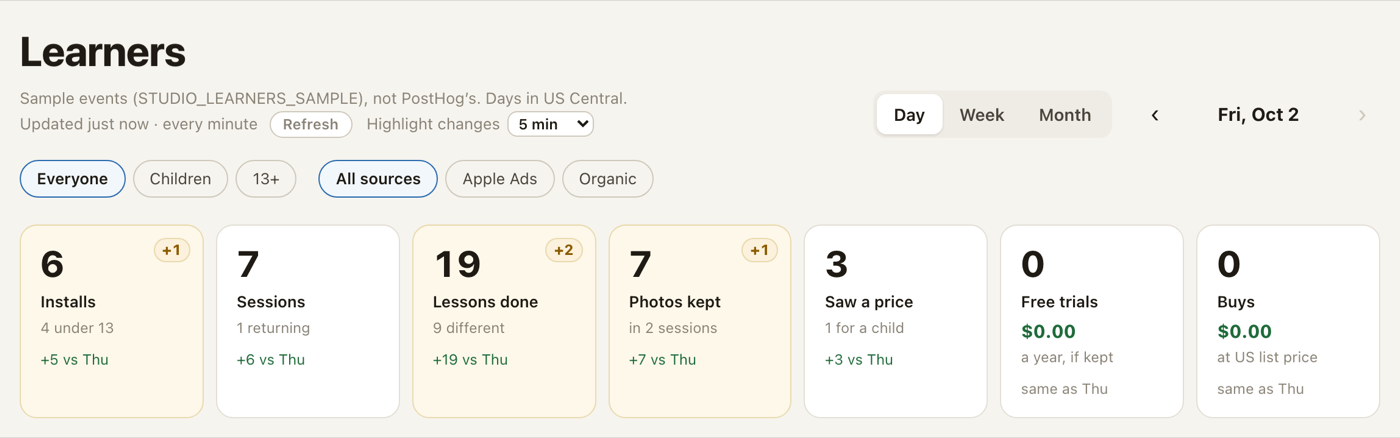
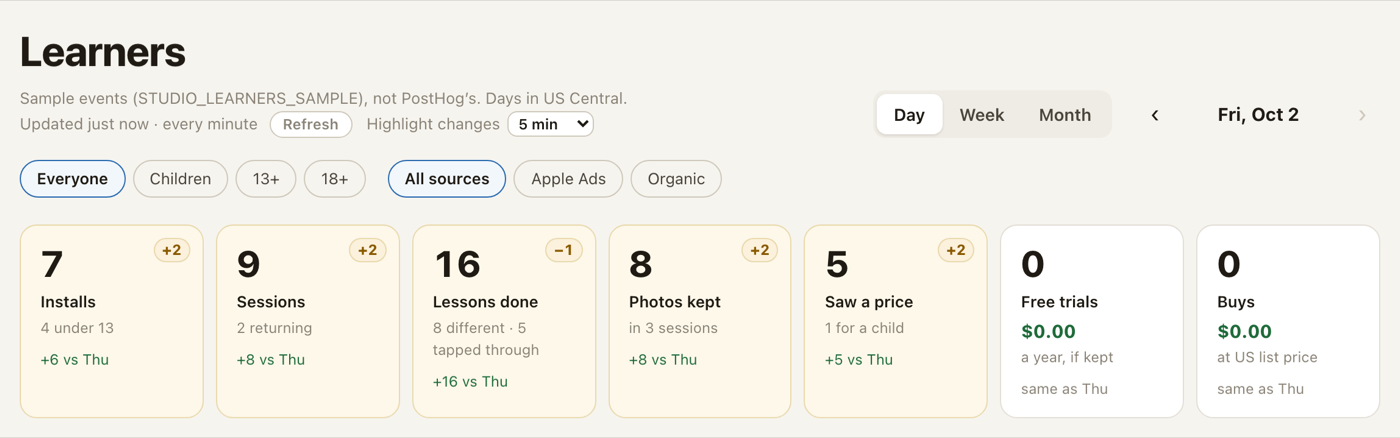
Studio Learners: leave out TestFlight and App Review devices
- The page asks App Store Connect (through `superwall asc get
  …/appStoreVersions`, kept an hour) which versions are or were on sale and
  when a phased release began, and leaves out every event of a version
  never on sale and a version's events before its phased release: what
  TestFlight and App Review devices sent. Events with no version, or of a
  version App Store Connect does not know, stay; without App Store Connect
  every version counts and the header says so.
- The header says what was left out: today "Left out: 1.1 (waiting for
  review), 6 events" (three devices on Sep 30, while 1.1 was in TestFlight).
- Debug builds and Apple Ads' test payload stay left out as before.
- The sample's versions are beside it (server/fixtures/app-versions.json);
  every screenshot of the page is retaken for the tapped-through counts.

Tests: 956 web tests pass, build clean.

diff --git a/web/server/appVersions.ts b/web/server/appVersions.ts
@@ -1,0 +1,81 @@
+import { promises as fs } from 'node:fs'
+
+import type { AppVersion } from '../src/studio/learners'
+import { superwall } from './appleAds'
+
+/**
+ * Paper Coach's versions as App Store Connect has them: which are or were on sale, and when
+ * a phased release began, read through Superwall's App Store Connect proxy (`superwall asc
+ * get`, no key to handle). The Learners page uses them to leave out what TestFlight and App
+ * Review devices sent (`leaveOutTestVersions`). Kept an hour (a failure, five minutes); with
+ * STUDIO_LEARNERS_SAMPLE, from a file beside the sample.
+ */
+export interface AppVersionsOptions {
+  sampleFile?: string
+  /** Runs `superwall` with these arguments and `--json`; for the tests. */
+  run?: (args: string[]) => Promise<unknown>
+}
+
+export interface AppVersionsResponse {
+  versions: AppVersion[]
+  problem: string | null
+}
+
+const APP_ID = '6816231257'
+const KEEP_MS = 60 * 60_000
+const KEEP_FAILURE_MS = 5 * 60_000
+/** On sale now, or once was (https://developer.apple.com/documentation/appstoreconnectapi/appversionstate). */
+const RELEASED = new Set(['READY_FOR_SALE', 'READY_FOR_DISTRIBUTION', 'REPLACED_WITH_NEW_VERSION', 'DEVELOPER_REMOVED_FROM_SALE', 'REMOVED_FROM_SALE'])
+
+let kept: { at: number; keep: number; response: AppVersionsResponse } | null = null
+
+/** Forgets the kept versions; for the tests. */
+export function forgetAppVersions() {
+  kept = null
+}
+
+export async function readAppVersions(options: AppVersionsOptions, now: number = Date.now()): Promise<AppVersionsResponse> {
+  if (options.sampleFile) {
+    try {
+      return { versions: (JSON.parse(await fs.readFile(options.sampleFile, 'utf8')) as { versions: AppVersion[] }).versions, problem: null }
+    } catch (error) {
+      return { versions: [], problem: `The sample's app versions did not read: ${error instanceof Error ? error.message : String(error)}` }
+    }
+  }
+  if (kept && now - kept.at < kept.keep) return kept.response
+  let response: AppVersionsResponse
+  try {
+    response = { versions: await askAppStoreConnect(options.run ?? superwall), problem: null }
+  } catch (error) {
+    response = {
+      versions: kept?.response.versions ?? [],
+      problem: `App Store Connect's versions did not come (superwall asc): ${(error instanceof Error ? error.message : String(error)).slice(0, 300)}`,
+    }
+  }
+  kept = { at: now, keep: response.problem ? KEEP_FAILURE_MS : KEEP_MS, response }
+  return response
+}
+
+type Resource = { id: string; type: string; attributes?: Record<string, unknown>; relationships?: Record<string, { data?: { id: string } | null }> }
+
+export async function askAppStoreConnect(run: (args: string[]) => Promise<unknown>): Promise<AppVersion[]> {
+  const answer = (await run([
+    'asc',
+    'get',
+    `/v1/apps/${APP_ID}/appStoreVersions?fields[appStoreVersions]=versionString,appStoreState,appVersionState,appStoreVersionPhasedRelease&include=appStoreVersionPhasedRelease&limit=200`,
+  ])) as { data?: Resource[]; included?: Resource[]; error?: unknown }
+  if (!answer || !Array.isArray(answer.data)) throw new Error(JSON.stringify(answer?.error ?? answer).slice(0, 200))
+  const phased = new Map((answer.included ?? []).filter((entry) => entry.type === 'appStoreVersionPhasedReleases').map((entry) => [entry.id, entry]))
+  return answer.data.map((entry) => {
+    const attributes = entry.attributes ?? {}
+    const state = String(attributes.appStoreState ?? attributes.appVersionState ?? '')
+    const release = entry.relationships?.appStoreVersionPhasedRelease?.data
+    const start = release ? phased.get(release.id)?.attributes?.startDate : null
+    return {
+      version: String(attributes.versionString),
+      state,
+      released: RELEASED.has(state) || RELEASED.has(String(attributes.appVersionState ?? '')),
+      since: typeof start === 'string' && start ? start.slice(0, 10) : null,
+    }
+  })
+}

diff --git a/web/server/appVersions.test.ts b/web/server/appVersions.test.ts
@@ -1,0 +1,65 @@
+import { fileURLToPath } from 'node:url'
+
+import { afterEach, describe, expect, it } from 'vitest'
+
+import { askAppStoreConnect, forgetAppVersions, readAppVersions } from './appVersions'
+import { forgetLearners, readLearners } from './learners'
+
+const versionsFile = fileURLToPath(new URL('./fixtures/app-versions.json', import.meta.url))
+const now = Date.parse('2026-10-02T23:30:00Z')
+
+afterEach(() => {
+  forgetAppVersions()
+  forgetLearners()
+})
+
+/** What `superwall asc get /v1/apps/…/appStoreVersions --json` answers. */
+async function fakeConnect() {
+  return {
+    data: [
+      {
+        type: 'appStoreVersions',
+        id: 'b',
+        attributes: { versionString: '1.1', appStoreState: 'READY_FOR_SALE', appVersionState: 'READY_FOR_DISTRIBUTION' },
+        relationships: { appStoreVersionPhasedRelease: { data: { type: 'appStoreVersionPhasedReleases', id: 'b' } } },
+      },
+      {
+        type: 'appStoreVersions',
+        id: 'a',
+        attributes: { versionString: '1.0', appStoreState: 'REPLACED_WITH_NEW_VERSION', appVersionState: 'REPLACED_WITH_NEW_VERSION' },
+        relationships: { appStoreVersionPhasedRelease: { data: null } },
+      },
+    ],
+    included: [{ type: 'appStoreVersionPhasedReleases', id: 'b', attributes: { phasedReleaseState: 'ACTIVE', startDate: '2026-10-06' } }],
+  }
+}
+
+describe('App Store Connect versions', () => {
+  it('says which versions are or were on sale, and when a phased release began', async () => {
+    expect(await askAppStoreConnect(fakeConnect)).toEqual([
+      { version: '1.1', state: 'READY_FOR_SALE', released: true, since: '2026-10-06' },
+      { version: '1.0', state: 'REPLACED_WITH_NEW_VERSION', released: true, since: null },
+    ])
+  })
+
+  it('says what went wrong, and counts every version meanwhile', async () => {
+    const failed = await readAppVersions({ run: async () => ({ error: { message: 'Not signed in' } }) }, now)
+    expect(failed).toMatchObject({ versions: [], problem: expect.stringContaining('Not signed in') })
+  })
+
+  it('leaves the test builds’ events out of what the page reads, and says so', async () => {
+    const fake = (async () =>
+      new Response(
+        JSON.stringify({
+          results: [
+            [1790949956518, 'app_opened', 'tester', null, null, null, null, null, null, null, null, null, null, null, null, null, null, '1.1'],
+            [1790949975257, 'app_opened', 'learner', null, null, null, null, null, null, null, null, null, null, null, null, null, null, '1.0'],
+          ],
+        }),
+        { status: 200 },
+      )) as unknown as typeof fetch
+    const response = await readLearners({ apiKey: 'phx_test', fetch: fake, versions: { sampleFile: versionsFile } }, '2026-10-02', '2026-10-03', now)
+    expect(response.events.map((event) => event.id)).toEqual(['learner'])
+    expect(response.leftOut).toEqual([{ version: '1.1', why: 'not on sale', state: 'WAITING_FOR_REVIEW', events: 1 }])
+  })
+})

diff --git a/web/src/studio/learners.ts b/web/src/studio/learners.ts
@@ -354,6 +354,49 @@ export interface PaywallNamesResponse {
   problem: string | null
 }
 
+/** A version of the app as App Store Connect has it. */
+export interface AppVersion {
+  version: string
+  /** App Store Connect's state ("READY_FOR_SALE", "WAITING_FOR_REVIEW"…). */
+  state: string
+  /** On sale now, or once was. */
+  released: boolean
+  /** The day its phased release began (YYYY-MM-DD), when it had one. */
+  since: string | null
+}
+
+/** Events of a version the page left out, and why. */
+export interface LeftOut {
+  version: string
+  why: 'not on sale' | 'before its release'
+  state: string
+  events: number
+}
+
+/**
+ * Leaves out what test devices sent from builds that were not on the App Store: every event
+ * of a version never on sale (TestFlight and App Review installs), and a version's events
+ * before its phased release began. Events with no version, or of a version App Store Connect
+ * does not know, stay; so does everything when there are no versions to go by.
+ */
+export function leaveOutTestVersions(events: LearnerEvent[], versions: AppVersion[]): { events: LearnerEvent[]; leftOut: LeftOut[] } {
+  if (!versions.length) return { events, leftOut: [] }
+  const byVersion = new Map(versions.map((entry) => [entry.version, entry]))
+  const leftOut = new Map<string, LeftOut>()
+  const kept = events.filter((event) => {
+    const entry = event.version ? byVersion.get(event.version) : undefined
+    if (!entry) return true
+    const why = !entry.released ? 'not on sale' : entry.since && dayOf(event.at) < entry.since ? 'before its release' : null
+    if (!why) return true
+    const key = `${entry.version}|${why}`
+    const counted = leftOut.get(key) ?? { version: entry.version, why, state: entry.state, events: 0 }
+    counted.events += 1
+    leftOut.set(key, counted)
+    return false
+  })
+  return { events: kept, leftOut: [...leftOut.values()] }
+}
+
 /** What `/api/learners` answers. */
 export interface LearnersResponse {
   /** False until a PostHog key is set; `problem` says how. */
@@ -364,6 +407,10 @@ export interface LearnersResponse {
   events: LearnerEvent[]
   /** When PostHog was asked (ISO). */
   fetchedAt: string | null
+  /** What test builds sent that was left out (`leaveOutTestVersions`). */
+  leftOut?: LeftOut[]
+  /** Why versions could not be checked, when they could not. */
+  versionsProblem?: string | null
 }
 
 // ---------- Days ----------

diff --git a/web/server/learners.ts b/web/server/learners.ts
@@ -1,7 +1,10 @@
 import { promises as fs } from 'node:fs'
 
+import { readAppVersions, type AppVersionsOptions } from './appVersions'
+
 import {
   DAY,
+  leaveOutTestVersions,
   LEARNER_EVENTS,
   LEARNERS_TIME_ZONE,
   dayOf,
@@ -32,6 +35,11 @@ export interface LearnersOptions {
   /** PostHog's private API, not the capture host the app sends to. */
   host?: string
   sampleFile?: string
+  /**
+   * App Store Connect's versions, to leave out what TestFlight and App Review devices sent
+   * (`leaveOutTestVersions`); without it, every version counts.
+   */
+  versions?: AppVersionsOptions
   /** For the tests. */
   fetch?: typeof fetch
 }
@@ -76,6 +84,29 @@ export function forgetLearners() {
 }
 
 export async function readLearners(
+  options: LearnersOptions,
+  from: string | null,
+  to: string | null,
+  now = Date.now(),
+  force = false,
+): Promise<LearnersResponse> {
+  return withoutTestVersions(await readAllLearners(options, from, to, now, force), options, now)
+}
+
+/** One learner's events, as `readLearners` leaves them. */
+export async function readLearnerHistory(options: LearnersOptions, idsParam: string | null, now = Date.now()): Promise<LearnersResponse> {
+  return withoutTestVersions(await readWholeHistory(options, idsParam, now), options, now)
+}
+
+/** The answer without what test builds sent, and a word on what was left out. Kept answers stay whole. */
+async function withoutTestVersions(response: LearnersResponse, options: LearnersOptions, now: number): Promise<LearnersResponse> {
+  if (!options.versions || !response.configured || !response.events.length) return response
+  const known = await readAppVersions(options.versions, now)
+  const { events, leftOut } = leaveOutTestVersions(response.events, known.versions)
+  return { ...response, events, leftOut, versionsProblem: known.problem }
+}
+
+async function readAllLearners(
   options: LearnersOptions,
   from: string | null,
   to: string | null,
@@ -126,7 +157,7 @@ export async function readLearners(
  * separated: the profile's, and the launch's before the age answer). Read-only,
  * kept five minutes like the rest.
  */
-export async function readLearnerHistory(
+async function readWholeHistory(
   options: LearnersOptions,
   idsParam: string | null,
   now = Date.now(),

diff --git a/web/src/studio/learners.test.ts b/web/src/studio/learners.test.ts
@@ -6,6 +6,7 @@ import { describe, expect, it } from 'vitest'
 import type { Tutorial } from '../schema/types'
 
 import {
+  leaveOutTestVersions,
   DEFAULT_LESSON_FLOOR_MS,
   markTappedThrough,
   lessonFloorMs,
@@ -697,5 +698,33 @@ describe('tapped through', () => {
     expect(report.sessions[0].timeline.map((line) => line.text)).toContain('Tapped through it in 5 s: too fast to have drawn it')
     expect(report.mostDrawn).toEqual([])
     expect(report.numbers.find((number) => number.key === 'lessons')).toMatchObject({ value: 0, sub: '0 different · 1 tapped through' })
+  })
+})
+
+describe('test builds', () => {
+  const at = Date.parse('2026-10-05T15:00:00Z')
+  const versions = [
+    { version: '1.2', state: 'WAITING_FOR_REVIEW', released: false, since: null },
+    { version: '1.1', state: 'READY_FOR_SALE', released: true, since: '2026-10-05' },
+    { version: '1.0', state: 'REPLACED_WITH_NEW_VERSION', released: true, since: null },
+  ]
+  const events: LearnerEvent[] = [
+    { at, event: 'app_opened', id: 'reviewer', version: '1.2' },
+    { at: at + 1, event: 'lesson_started', id: 'reviewer', version: '1.2', lesson: 'cloud' },
+    { at: at - 2 * 86_400_000, event: 'app_opened', id: 'tester', version: '1.1' },
+    { at, event: 'app_opened', id: 'learner', version: '1.1' },
+    { at, event: 'app_opened', id: 'older', version: '1.0' },
+    { at, event: 'app_opened', id: 'nobody-knows', version: '0.9' },
+    { at, event: 'app_opened', id: 'unsaid' },
+  ]
+
+  it('leaves out a version never on sale, and a version’s events before its phased release began', () => {
+    const { events: kept, leftOut } = leaveOutTestVersions(events, versions)
+    expect(kept.map((event) => event.id)).toEqual(['learner', 'older', 'nobody-knows', 'unsaid'])
+    expect(leftOut).toEqual([
+      { version: '1.2', why: 'not on sale', state: 'WAITING_FOR_REVIEW', events: 2 },
+      { version: '1.1', why: 'before its release', state: 'READY_FOR_SALE', events: 1 },
+    ])
+    expect(leaveOutTestVersions(events, [])).toEqual({ events, leftOut: [] })
   })
 })

diff --git a/web/src/studio/docs.ts b/web/src/studio/docs.ts
@@ -184,7 +184,7 @@ export const DOC_TOOLS: DocTool[] = [
     needs: [
       'Node 22.13 or later, and `npm install` once',
       'Keys in `web/.env.local` (git ignores it): `OPENROUTER_API_KEY` to generate lessons, `POSTHOG_PERSONAL_API_KEY` (read access to Query) for the Learners page',
-      'The `superwall` CLI signed in, for the names of the Apple Ads keywords and the paywall versions on the Learners page (without it, their ids)',
+      'The `superwall` CLI signed in, for the Learners page: Apple Ads keyword names and spend, paywall version names, and which app versions are on sale (without it, ids, no spend, every version counted)',
     ],
     tips: ['On m4-1, don’t start a second Studio: the command line and the running one share the workspace safely.'],
     see: [{ label: 'Settings', href: studioPages.settings }],
@@ -426,7 +426,7 @@ export const DOC_TOOLS: DocTool[] = [
     kind: 'terminal',
     name: 'Superwall CLI',
     about:
-      'The paywalls, campaigns and A/B tests in Superwall, and Apple Ads through Superwall’s proxy. `today.py` calls it for the tests and the ads, and the Studio’s Learners page for the names of the Apple Ads campaigns and keywords that brought each learner, what each keyword spent, and the names of the paywall versions they saw.',
+      'The paywalls, campaigns and A/B tests in Superwall, and Apple Ads through Superwall’s proxy. `today.py` calls it for the tests and the ads, and the Studio’s Learners page for the names of the Apple Ads campaigns and keywords that brought each learner, what each keyword spent, the names of the paywall versions they saw, and which app versions are on sale (to leave out TestFlight and App Review devices).',
     where: 'anywhere',
     usedBy: 'Claude, for the tests and the ads; the Studio’s Learners page',
     needs: ['`superwall login` once per machine'],

diff --git a/web/src/studio/LearnersView.tsx b/web/src/studio/LearnersView.tsx
@@ -217,6 +217,11 @@ export function useNumberChanges(
   return changes
 }
 
+/** "waiting for review", from App Store Connect's "WAITING_FOR_REVIEW". */
+function stateWords(state: string): string {
+  return state.toLowerCase().replace(/_/g, ' ')
+}
+
 const NO_NAMES: AdNames = { campaigns: {}, adGroups: {}, keywords: {} }
 /** The names behind Apple Ads' ids, asked for once per visit to the page. */
 const AdNamesContext = createContext<AdNames>(NO_NAMES)
@@ -505,6 +510,12 @@ export function LearnersView({
           <p className="st-learners__byline">
             {response?.source === 'sample' ? <>Sample events (STUDIO_LEARNERS_SAMPLE), not PostHog’s.</> : <>From PostHog.</>}{' '}
             Days in {LEARNERS_TIME_ZONE_NAME}.{' '}
+            {response?.leftOut?.length ? (
+              <span title="Builds that were not on the App Store: TestFlight and App Review devices">
+                Left out: {response.leftOut.map((entry) => `${entry.version} ${entry.why === 'not on sale' ? `(${stateWords(entry.state)})` : '(before its release)'}, ${entry.events} events`).join('; ')}.{' '}
+              </span>
+            ) : null}
+            {response?.versionsProblem ? <span title={response.versionsProblem}>App versions not checked. </span> : null}
             {response?.configured ? (
               <Freshness
                 loadedAt={loadedAt}

diff --git a/web/vite.config.ts b/web/vite.config.ts
@@ -53,6 +53,11 @@ export default defineConfig(({ mode }) => {
           apiKey: env.POSTHOG_PERSONAL_API_KEY || undefined,
           projectId: env.POSTHOG_PROJECT_ID || undefined,
           sampleFile: env.STUDIO_LEARNERS_SAMPLE || undefined,
+          // App Store Connect's versions, to leave out TestFlight and App Review devices; the
+          // sample's are beside it.
+          versions: {
+            sampleFile: env.STUDIO_LEARNERS_SAMPLE ? env.STUDIO_LEARNERS_SAMPLE.replace(/[^/]*$/, 'app-versions.json') : undefined,
+          },
         },
       }),
     ],

diff --git a/docs/studio/learners-2026-10-02/README.md b/docs/studio/learners-2026-10-02/README.md
@@ -3,7 +3,10 @@
 The Learners page (`#/learners`) and its summary on Today, shown with the committed sample
 (`STUDIO_LEARNERS_SAMPLE=server/fixtures/learners-sample.json`: PostHog's events for Oct 1, and Oct 2 until 6:30 PM,
 2026, release builds only, ids relabeled). With `POSTHOG_PERSONAL_API_KEY` set, the same page reads PostHog live. Test devices
-are left out: every debug build, and every id that carried Apple Ads' test payload.
+are left out: every debug build, every id that carried Apple Ads' test payload, and (from App Store Connect, through
+`superwall asc`) every event of a version never on sale, and of a version before its phased release began: what
+TestFlight and App Review devices sent. The header says what was left out ("Left out: 1.1 (waiting for review),
+6 events").
 
 ## How fresh it is
 

diff --git a/docs/ops/README.md b/docs/ops/README.md
@@ -49,6 +49,8 @@ every scheduled run follows it.
   before the first price.
   A lesson finished faster than it can be drawn (its animation, or 3 s a step) with no photo kept is "tapped through"
   and left out of every count of lessons drawn.
+  Versions never on sale (TestFlight, App Review) and a version's events before its phased release are left out,
+  from App Store Connect (`superwall asc get …/appStoreVersions`, kept an hour); the header says what.
 
 **Kevin, in his own sessions:** new features, bugs nobody reported, and performance work. Claude only
 *suggests* these, in the summary or under "Needs you". **Claude never builds or submits a feature
